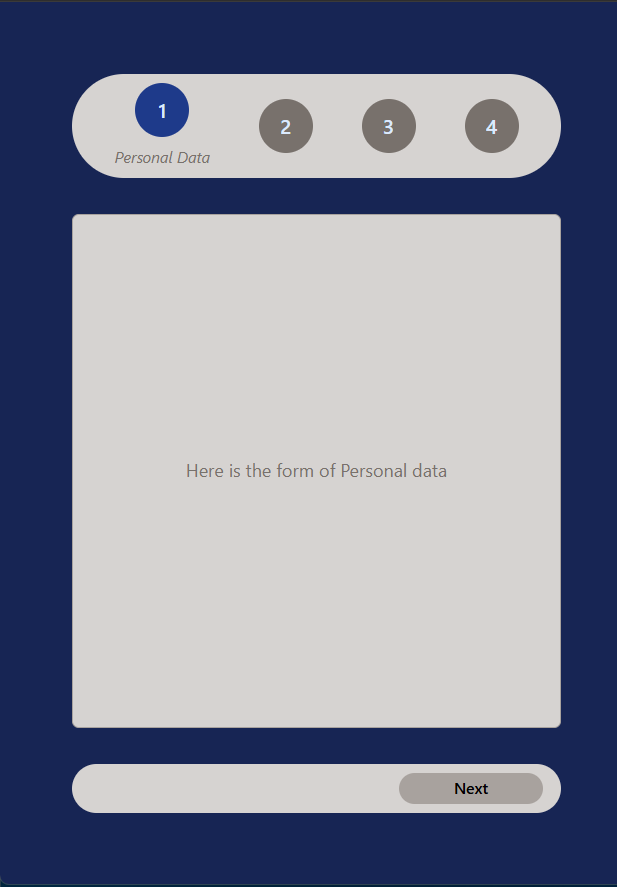
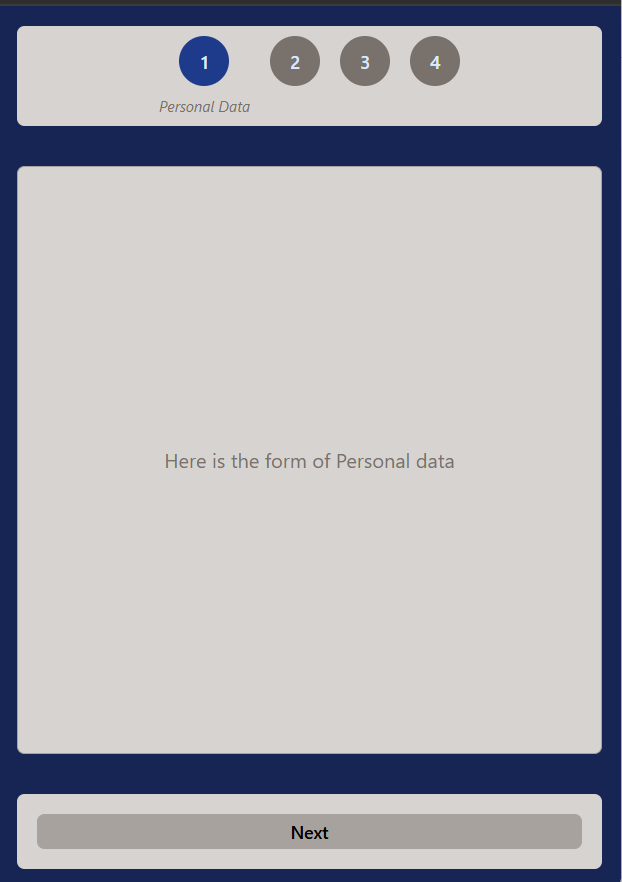
Fix responsive design

diff --git a/src/App.jsx b/src/App.jsx
@@ -17,9 +17,9 @@ function App() {
   };
 
   return (
-    <div className="container mx-auto my-auto flex h-screen max-w-[768px] flex-col items-start justify-between bg-blue-950 p-16">
+    <div className="container mx-auto my-auto flex h-screen max-w-[768px] flex-col items-start justify-between bg-blue-950 p-4">
       {/* setppers number */}
-      <div className="flex w-full items-center justify-around rounded-full bg-stone-300 px-4 py-2">
+      <div className="flex w-full flex-wrap items-start justify-center gap-4 rounded-md bg-stone-300 px-4 py-2">
         {stepperData.map((item) => (
           <Stepper
             key={item.id}
@@ -35,7 +35,7 @@ function App() {
       </div>
       {/* Buttons */}
       <div
-        className={`flex w-full items-center ${step > 0 ? 'justify-between' : 'justify-end'} gap-16 rounded-full bg-stone-300 px-4 py-2`}
+        className={`flex w-full flex-col items-center gap-2 sm:flex-row ${step > 0 ? 'justify-between' : 'justify-end'} rounded-md bg-stone-300 p-4`}
       >
         {step > 0 && (
           <Button handlePervious={handlePervious} step={step}>

diff --git a/src/components/Stepper.jsx b/src/components/Stepper.jsx
@@ -1,13 +1,13 @@
 const Stepper = ({ number, isActive, title }) => {
   return (
-    <div className="justifz-center flex flex-col items-center gap-2">
+    <div className="flex flex-col items-center justify-center gap-2">
       <div
-        className={`flex h-6 w-6 items-center justify-center rounded-full p-6 text-lg font-semibold text-blue-100 ${isActive ? 'bg-blue-900' : 'bg-stone-500'} transition-colors duration-300`}
+        className={`flex h-10 w-10 items-center justify-center rounded-full text-sm font-semibold text-blue-100 ${isActive ? 'bg-blue-900' : 'bg-stone-500'} transition-colors duration-300`}
       >
         {number}
       </div>
       {isActive && (
-        <span className="text-sm capitalize italic text-stone-500">
+        <span className="text-center text-xs capitalize italic text-stone-500">
           {title}
         </span>
       )}

diff --git a/src/components/Button.jsx b/src/components/Button.jsx
@@ -1,7 +1,7 @@
 const Button = ({ children, handlePervious, step, length }) => {
   return (
     <button
-      className={`flex w-32 items-center justify-center rounded-full px-12 py-1 text-sm font-semibold transition-colors duration-300 focus:outline-none ${step == length && children === 'submit' ? 'bg-orange-800 text-orange-100 hover:bg-orange-700' : 'bg-stone-400 hover:bg-stone-200'} capitalize`}
+      className={`flex w-full items-center justify-center rounded-md px-12 py-1 text-sm font-semibold transition-colors duration-300 focus:outline-none sm:w-32 ${step == length && children === 'submit' ? 'bg-orange-800 text-orange-100 hover:bg-orange-700' : 'bg-stone-400 hover:bg-stone-200'} capitalize`}
       onClick={handlePervious}
     >
       {children}

diff --git a/README.md b/README.md
@@ -64,6 +64,8 @@ Here are some screenshots showcasing the features of the project:
 
 ![Screenshot 3](public/imgPrev.png)
 
+![Screenshot 4](public/imgPrev4.png)
+
 ## 🛠 Installation and Usage
 
 Follow these steps to run the project locally:
